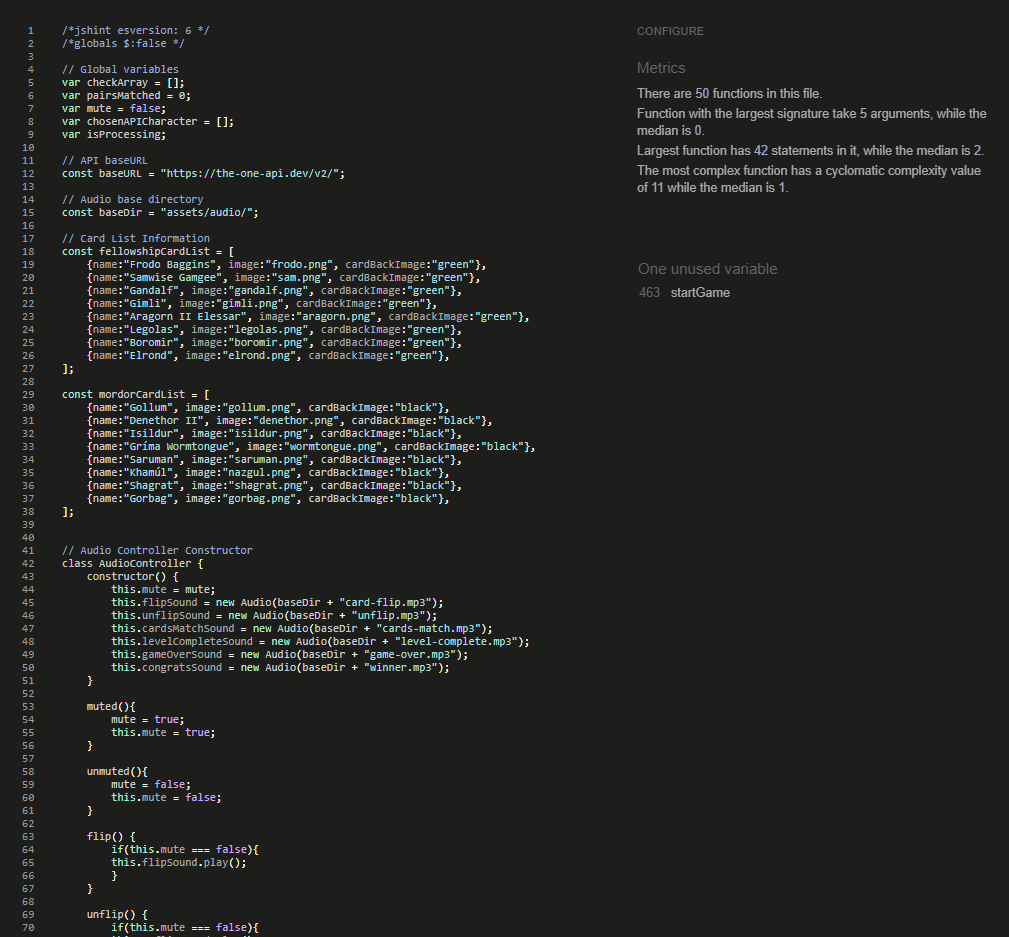
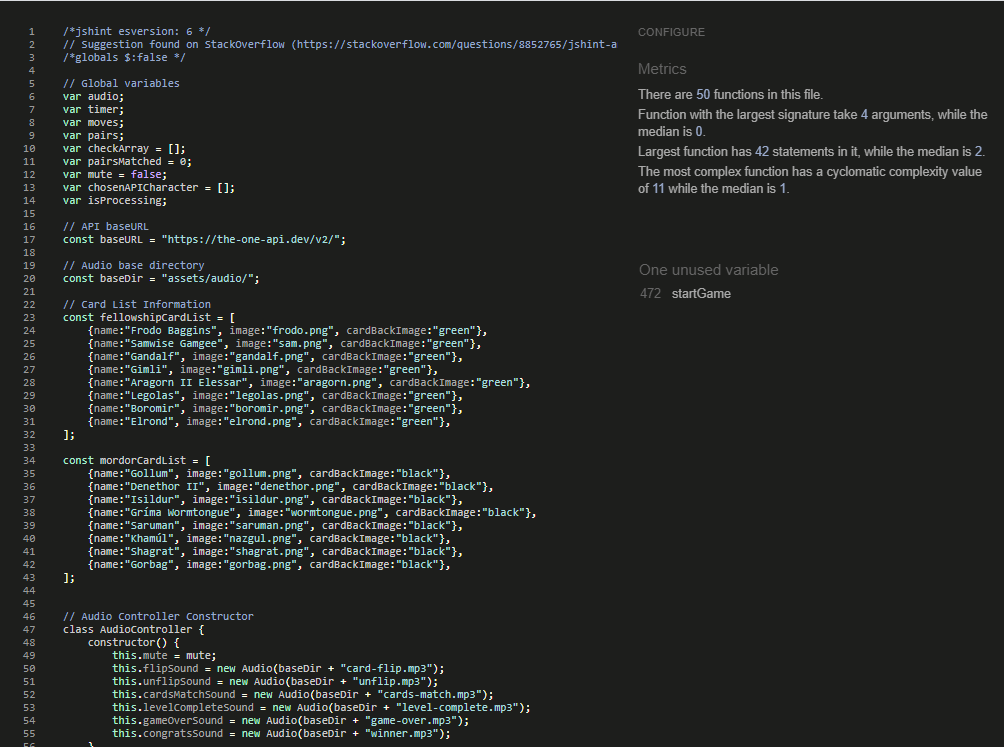
doc: updated jshint results uploaded and included in the README.md file.

diff --git a/README.md b/README.md
@@ -412,9 +412,10 @@ A class of 'extra-row' is added to this new row in order to allow for easy delet
 **Game Logic**
 
 When the player makes their initial choice of card pack the button calls the *startGame* function.  This in turn sets 
-up the game by creating a new Audio Controller, Moves Counter, Pairs Counter and passing these variables, as well as 
-the chosenCardList to other functions such as the *setUpAdvanceLevel* function, the *setUpRestart* function and the
-*assignCards* function.
+up the game by creating a new Audio Controller, Moves Counter and Pairs Counter.  This function passes the chosenCardList to the *setUpAdvanceLevel*
+function so that the desired theme is maintained in each level.  The function sets up other functions including the *setUpRestart* and *toggleSoundOnSpeakerClick* 
+functions before calling the *assignCards* function.
+
 
 The *assignCards* function calls the *makeDeck* function which creates a smaller array of cards from the full deck.  
 It's length is calculated by halving the number of divs to be filled. 
@@ -469,7 +470,12 @@ amalgamated into 'script.js'.
 
 The final refactoring consisted of removing the need for some of the global variables by creating the Timer, Audio Controller, Moves Counter and Pairs Counter
 within a new *startGame* function.  This function then called other functions, such as the *assignCards* function and passed the timer, the other counters and the chosenCardPack
-to these functions as variables. 
+to these functions as variables.  This however created more bugs that were not able to be resolved, for example, the new instance of the game with new timers and counters and 
+click event listeners did not delete or over-write the previous versions.  It was possible, in the *setUpRestart* function to remove the event handlers so that a previous events, 
+for example, a toggled volume button, would not inadvertently remain muted after the game had been restarted.  
+It was attempted to stop the the Timer, Audio Controller, Moves Counter and Pairs Counter within the *setUpRestart* function and to reset their values to null, 
+however if the home button was clicked more than once this resulted in TypeErrors when one of the reset functions such as the *stopTimer* function tried to read the value of null.
+Therefore the global variables were reinstated.
  
 <br>
 
@@ -542,7 +548,7 @@ To test the validity of the JavaScript [Espirima](https://esprima.org/demo/valid
 The JavaScipt file was also passed into [JSHint](jshint.com).  This highlighted many errors and warnings, predominantly relating to variables that had been declared
 incorrectly with regard to the keywords 'let' and 'var'.  These errors have since been rectified.  
 A StackOverflow suggestion of declaring /*globals $:false */ at the start of the file 
-removed the warnings regarding the jQuery dollar sign without replacing every dollar sign with 'jquery'.  
+removed the warnings regarding the jQuery dollar sign without the need to replace every dollar sign with the word 'jquery'.  
 The remaining so-called 'unused variable' is the startGame function which is called in the 'index.html' file in the opening modal. 
 No other errors or warnings remain in the code.
 ![alt text](documentation/readme-images/jshint-results.png "JSHint results, no remaining errors")
